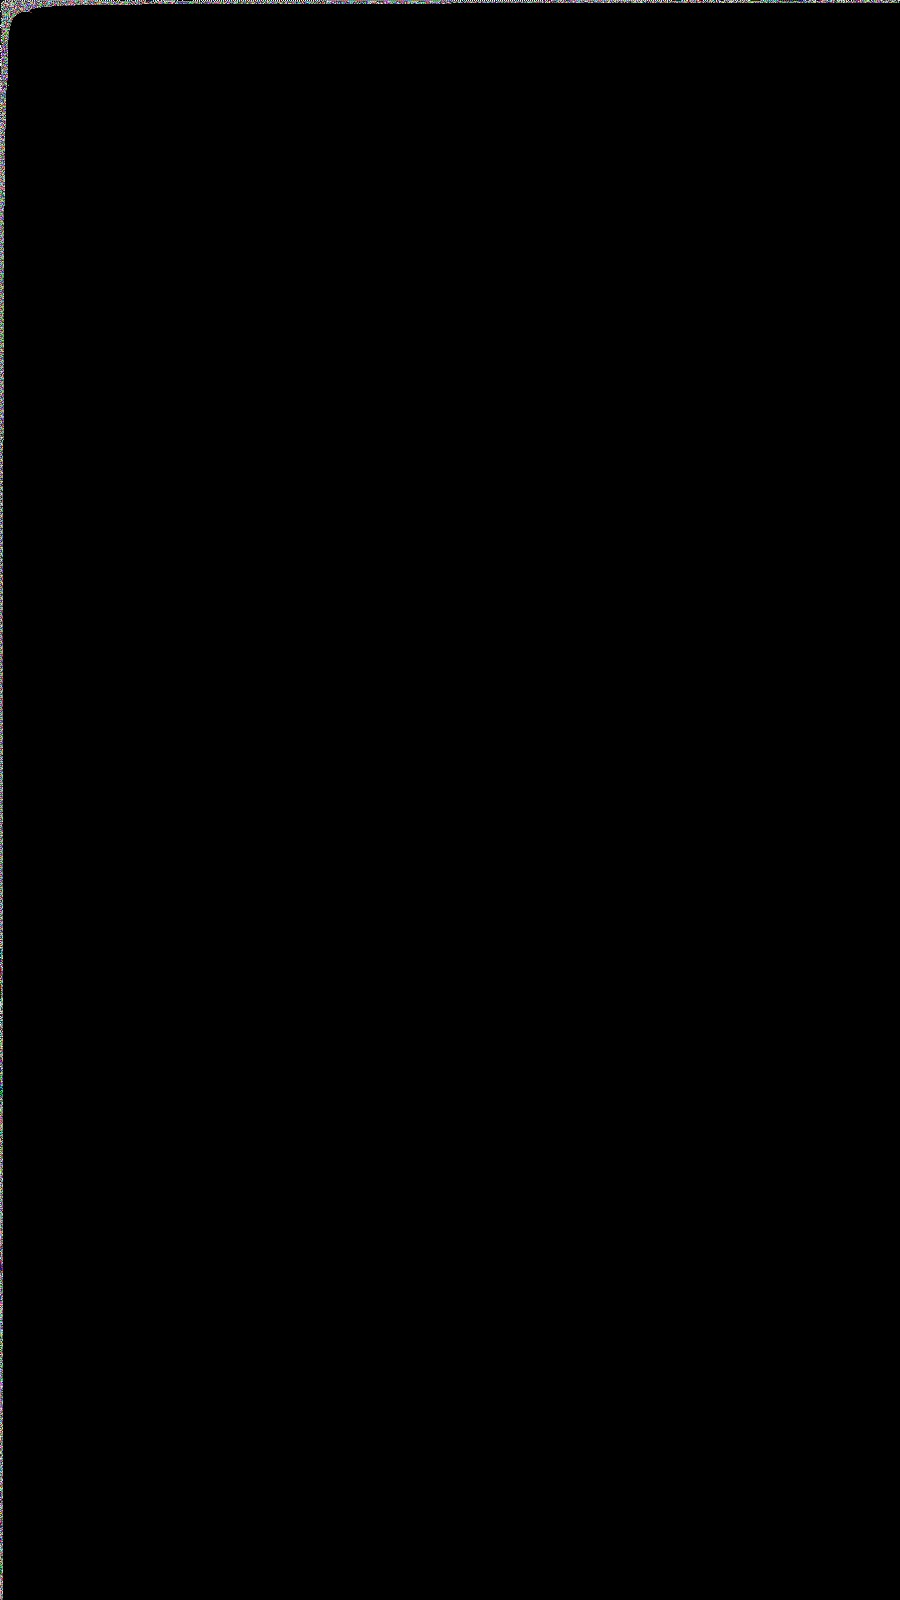
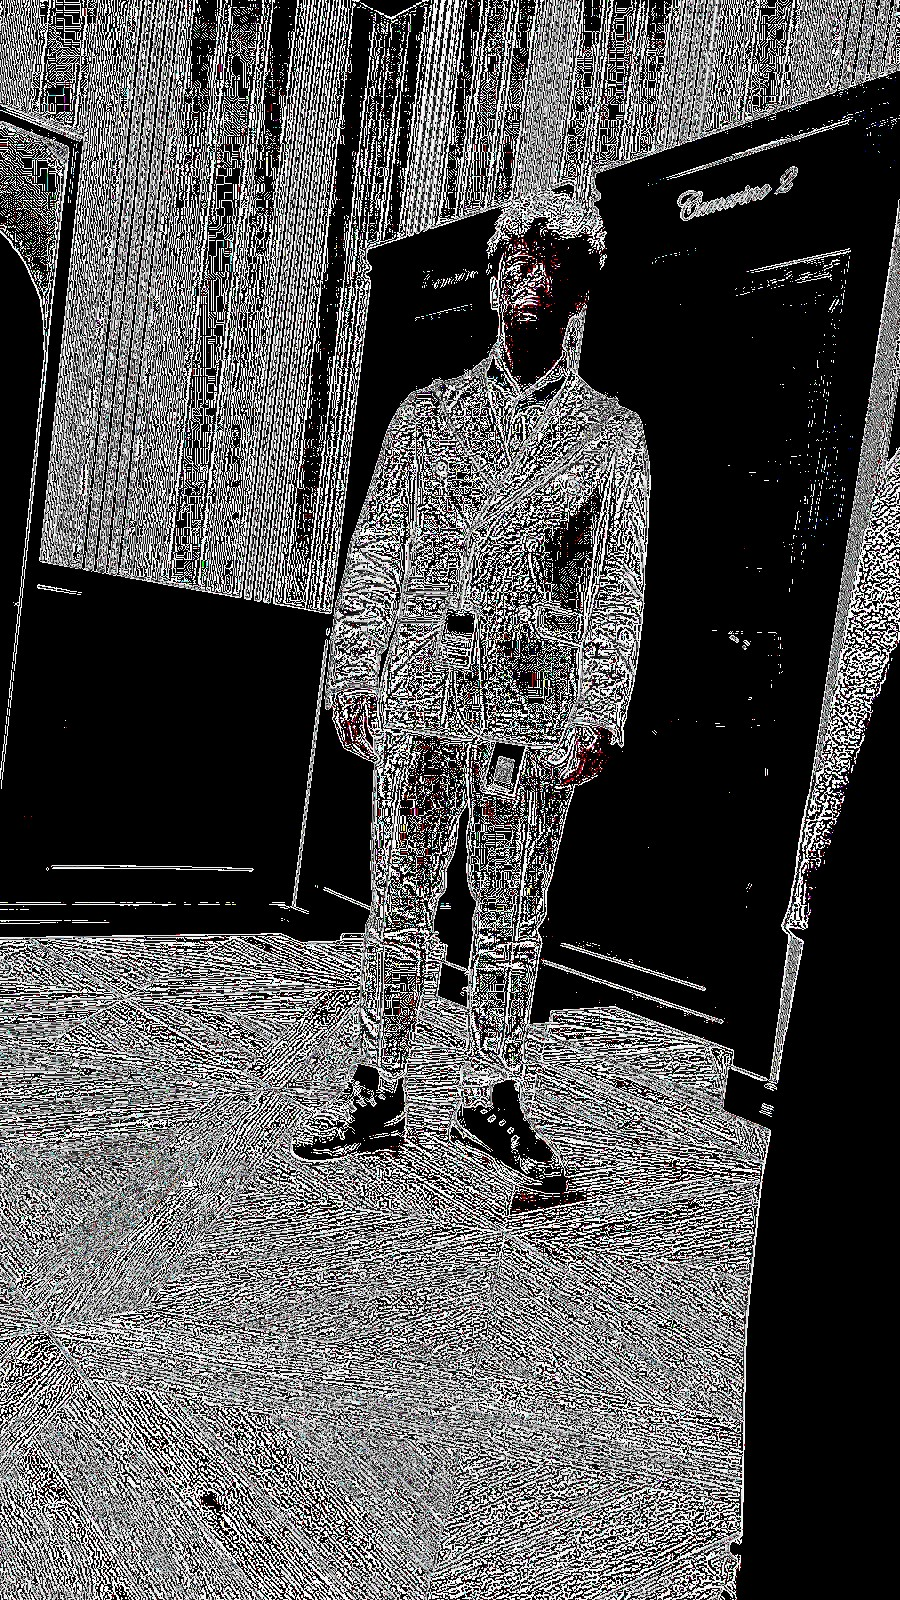
v.2

diff --git a/src/ImageTransformation.cpp b/src/ImageTransformation.cpp
@@ -6,7 +6,7 @@ Image DiscreteConvolution(Image& image, const Image& filter) {
     const int filter_width = filter.getWidth();
     const int filter_height = filter.getHeight();
 
-    //Image new_image = image;
+    Image new_image = image;
     for (size_t i = 0; i < image_width; i++) {
         for (size_t j = 0; j < image_height; j++) {
             double r_conv = 0;
@@ -19,8 +19,8 @@ Image DiscreteConvolution(Image& image, const Image& filter) {
                     // in new_image
                     // (all formulas are needed to implement the "minus index" logic in formula
                     // for an array positive indexing, narrowing conversion is wanted)
-                    int conv_x = i + static_cast<int>(filter_height/2.0) - k;
-                    int conv_y = j + static_cast<int>(filter_width/2.0) - m;
+                    int conv_x = i + static_cast<int>(filter_width/2.0) - k;
+                    int conv_y = j + static_cast<int>(filter_height/2.0) - m;
 
                     // Mirroring
                     if (conv_x < 0) {
@@ -43,12 +43,12 @@ Image DiscreteConvolution(Image& image, const Image& filter) {
                     g_conv += (filter(k, m).g * image(conv_x, conv_y).g);
                 }
             }
-            image(i, j).r = r_conv;
-            image(i, j).b = b_conv;
-            image(i, j).g = g_conv;
+            new_image(i, j).r = r_conv;
+            new_image(i, j).b = b_conv;
+            new_image(i, j).g = g_conv;
         }
     }
-    return image;
+    return new_image;
 };
 
 Image createLaplaceFilter() {
